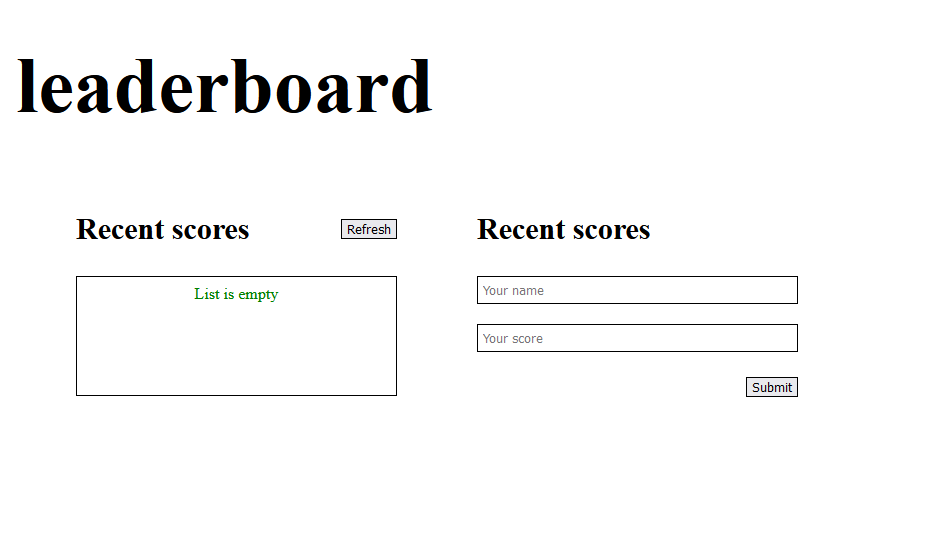
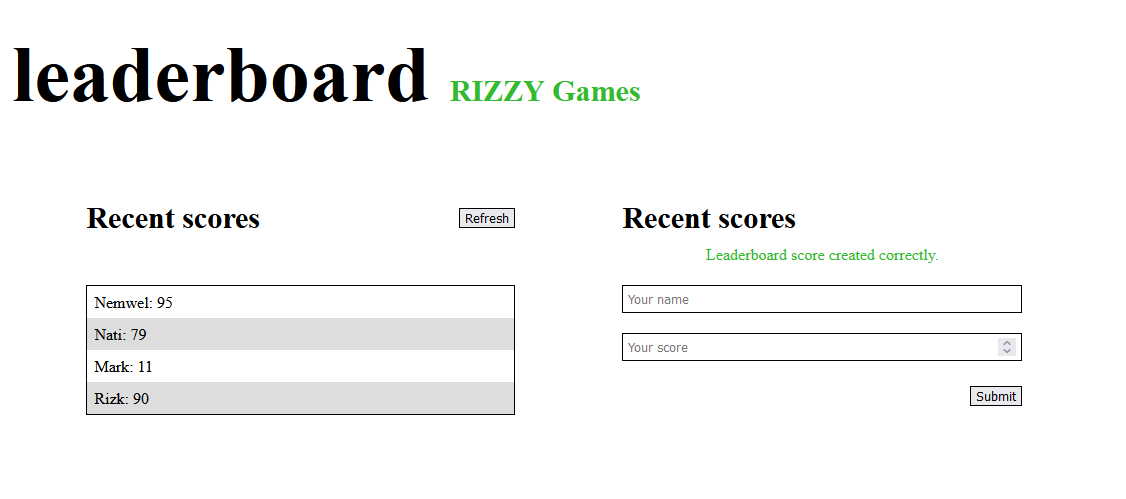
Edit readme and screenshot

diff --git a/README.md b/README.md
@@ -2,7 +2,7 @@
 
 # Leaderboard
 
-> A simple design for a leaderboard list. Users can add names and scores and it will be desplayed as a list.
+> A simple design for a leaderboard list. All data are stored on Leaderboard API. Upon page load, List of scores get updated from the API. Upon submitting names and scores, names are added to the list of game scores on the API. Upon clicking refresh, list of names are updated and displayed.
 
 ## Screensot
 
@@ -13,6 +13,7 @@
 - css
 - JS
 - Webpack
+- Restful API 
 
 ## Live Demo (if available)
 
@@ -21,7 +22,7 @@ Check the [Live Demo](https://elerqsousy.github.io/leaderboard-api/) deployed on
 
 ## Getting Started
 
-This is a simple static website made with HTML5, CSS, and JavaScript. There is not specific requirements for building the project.
+This is a simple static website made with HTML5, CSS, and JavaScript. There is no specific requirements for building the project.
 ## Setup
 - clone the repo locally 
 ### Install
@@ -34,6 +35,8 @@ This is a simple static website made with HTML5, CSS, and JavaScript. There is n
 
 - GitHub: [@Elerqsousy](https://github.com/Elerqsousy)
 
+## Credits
+Loading animation is an edited version of [Tatsuya Azegami](https://codepen.io/42EG4M1)'s [animation](https://codepen.io/42EG4M1/pen/bVMzze).
 ## 🤝 Contributing
 
 Contributions, issues, and feature requests are welcome!
